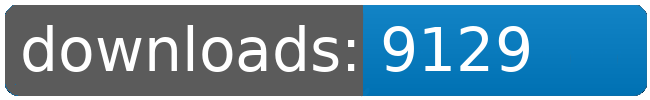
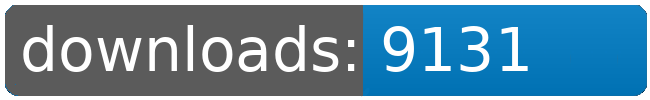
dl log written

Changed region(s): [[0.7077, 0.24, 0.8308, 0.72]]

diff --git a/README.md b/README.md
@@ -4,146 +4,146 @@
 <table>
 	<tr>
 		<td></td>
-		<td>2026-11-19</td>
 		<td>2026-11-20</td>
 		<td>2026-11-21</td>
 		<td>2026-11-22</td>
 		<td>2026-11-23</td>
 		<td>2026-11-24</td>
 		<td>2026-11-25</td>
+		<td>2026-11-26</td>
 		<td>today +</td>
 	</tr>
 	<tr>
 		<td>Bunsen.Burner</td>
-		<td>9164</td>
 		<td>9176</td>
 		<td>9180</td>
 		<td>9203</td>
 		<td>9213</td>
 		<td>9215</td>
 		<td>9220</td>
-		<td>+ 5</td>
+		<td>9220</td>
+		<td></td>
 	</tr>
 	<tr>
 		<td>Factory.Outlets</td>
-		<td>8281</td>
 		<td>8290</td>
 		<td>8295</td>
 		<td>8304</td>
 		<td>8310</td>
 		<td>8313</td>
 		<td>8317</td>
-		<td>+ 4</td>
+		<td>8317</td>
+		<td></td>
 	</tr>
 	<tr>
 		<td>Fundamental.Outfit.Expansion</td>
-		<td>9759</td>
 		<td>9772</td>
 		<td>9778</td>
 		<td>9794</td>
 		<td>9805</td>
 		<td>9808</td>
 		<td>9815</td>
-		<td>+ 7</td>
+		<td>9815</td>
+		<td></td>
 	</tr>
 	<tr>
 		<td>Fundamental.Outfit.Expansion.Alien</td>
-		<td>77</td>
 		<td>86</td>
 		<td>87</td>
 		<td>95</td>
 		<td>102</td>
 		<td>106</td>
 		<td>115</td>
-		<td>+ 9</td>
+		<td>115</td>
+		<td></td>
 	</tr>
 	<tr>
 		<td>Jaws</td>
-		<td>8015</td>
 		<td>8024</td>
 		<td>8028</td>
 		<td>8036</td>
 		<td>8040</td>
 		<td>8042</td>
 		<td>8046</td>
-		<td>+ 4</td>
+		<td>8046</td>
+		<td></td>
 	</tr>
 	<tr>
 		<td>Korunak.Defense.Drones</td>
-		<td>8287</td>
 		<td>8300</td>
 		<td>8305</td>
 		<td>8325</td>
 		<td>8337</td>
 		<td>8340</td>
 		<td>8344</td>
-		<td>+ 4</td>
+		<td>8344</td>
+		<td></td>
 	</tr>
 	<tr>
 		<td>Laser.Sight</td>
-		<td>32</td>
 		<td>35</td>
 		<td>35</td>
 		<td>39</td>
 		<td>40</td>
 		<td>40</td>
 		<td>41</td>
-		<td>+ 1</td>
+		<td>41</td>
+		<td></td>
 	</tr>
 	<tr>
 		<td>Louise.Conglomerate.Shipyards</td>
-		<td>9059</td>
 		<td>9074</td>
 		<td>9084</td>
 		<td>9107</td>
 		<td>9120</td>
 		<td>9123</td>
 		<td>9129</td>
-		<td>+ 6</td>
+		<td>9131</td>
+		<td>+ 2</td>
 	</tr>
 	<tr>
 		<td>Sheragi.Rebirth.Redux</td>
-		<td>120</td>
 		<td>124</td>
 		<td>124</td>
 		<td>128</td>
 		<td>130</td>
 		<td>130</td>
 		<td>131</td>
-		<td>+ 1</td>
+		<td>131</td>
+		<td></td>
 	</tr>
 	<tr>
 		<td>Solar.Sails</td>
-		<td>8179</td>
 		<td>8189</td>
 		<td>8193</td>
 		<td>8204</td>
 		<td>8212</td>
 		<td>8214</td>
 		<td>8219</td>
-		<td>+ 5</td>
+		<td>8220</td>
+		<td>+ 1</td>
 	</tr>
 	<tr>
 		<td>Zone.of.Control</td>
-		<td>7970</td>
 		<td>7979</td>
 		<td>7983</td>
 		<td>7991</td>
 		<td>7997</td>
 		<td>8000</td>
 		<td>8004</td>
-		<td>+ 4</td>
+		<td>8004</td>
+		<td></td>
 	</tr>
 	<tr>
 		<td>zzzZapping.Tweaks</td>
-		<td>43</td>
 		<td>46</td>
 		<td>46</td>
 		<td>51</td>
 		<td>53</td>
 		<td>53</td>
 		<td>54</td>
-		<td>+ 1</td>
+		<td>54</td>
+		<td></td>
 	</tr>
 	<tr>
 		<td></td>
@@ -153,8 +153,8 @@
 		<td></td>
 		<td></td>
 		<td></td>
-		<td>69435</td>
-		<td>51</td>
+		<td>69438</td>
+		<td>3</td>
 	</tr>
 </table>
 </sub></sup>
@@ -162,146 +162,146 @@
 <table>
 	<tr>
 		<td></td>
-		<td>2026-11-19</td>
 		<td>2026-11-20</td>
 		<td>2026-11-21</td>
 		<td>2026-11-22</td>
 		<td>2026-11-23</td>
 		<td>2026-11-24</td>
 		<td>2026-11-25</td>
+		<td>2026-11-26</td>
 		<td>today +</td>
 	</tr>
 	<tr>
 		<td>Fundamental.Outfit.Expansion</td>
-		<td>9759</td>
 		<td>9772</td>
 		<td>9778</td>
 		<td>9794</td>
 		<td>9805</td>
 		<td>9808</td>
 		<td>9815</td>
-		<td>+ 7</td>
+		<td>9815</td>
+		<td></td>
 	</tr>
 	<tr>
 		<td>Bunsen.Burner</td>
-		<td>9164</td>
 		<td>9176</td>
 		<td>9180</td>
 		<td>9203</td>
 		<td>9213</td>
 		<td>9215</td>
 		<td>9220</td>
-		<td>+ 5</td>
+		<td>9220</td>
+		<td></td>
 	</tr>
 	<tr>
 		<td>Louise.Conglomerate.Shipyards</td>
-		<td>9059</td>
 		<td>9074</td>
 		<td>9084</td>
 		<td>9107</td>
 		<td>9120</td>
 		<td>9123</td>
 		<td>9129</td>
-		<td>+ 6</td>
+		<td>9131</td>
+		<td>+ 2</td>
 	</tr>
 	<tr>
 		<td>Korunak.Defense.Drones</td>
-		<td>8287</td>
 		<td>8300</td>
 		<td>8305</td>
 		<td>8325</td>
 		<td>8337</td>
 		<td>8340</td>
 		<td>8344</td>
-		<td>+ 4</td>
+		<td>8344</td>
+		<td></td>
 	</tr>
 	<tr>
 		<td>Factory.Outlets</td>
-		<td>8281</td>
 		<td>8290</td>
 		<td>8295</td>
 		<td>8304</td>
 		<td>8310</td>
 		<td>8313</td>
 		<td>8317</td>
-		<td>+ 4</td>
+		<td>8317</td>
+		<td></td>
 	</tr>
 	<tr>
 		<td>Solar.Sails</td>
-		<td>8179</td>
 		<td>8189</td>
 		<td>8193</td>
 		<td>8204</td>
 		<td>8212</td>
 		<td>8214</td>
 		<td>8219</td>
-		<td>+ 5</td>
+		<td>8220</td>
+		<td>+ 1</td>
 	</tr>
 	<tr>
 		<td>Jaws</td>
-		<td>8015</td>
 		<td>8024</td>
 		<td>8028</td>
 		<td>8036</td>
 		<td>8040</td>
 		<td>8042</td>
 		<td>8046</td>
-		<td>+ 4</td>
+		<td>8046</td>
+		<td></td>
 	</tr>
 	<tr>
 		<td>Zone.of.Control</td>
-		<td>7970</td>
 		<td>7979</td>
 		<td>7983</td>
 		<td>7991</td>
 		<td>7997</td>
 		<td>8000</td>
 		<td>8004</td>
-		<td>+ 4</td>
+		<td>8004</td>
+		<td></td>
 	</tr>
 	<tr>
 		<td>Sheragi.Rebirth.Redux</td>
-		<td>120</td>
 		<td>124</td>
 		<td>124</td>
 		<td>128</td>
 		<td>130</td>
 		<td>130</td>
 		<td>131</td>
-		<td>+ 1</td>
+		<td>131</td>
+		<td></td>
 	</tr>
 	<tr>
 		<td>Fundamental.Outfit.Expansion.Alien</td>
-		<td>77</td>
 		<td>86</td>
 		<td>87</td>
 		<td>95</td>
 		<td>102</td>
 		<td>106</td>
 		<td>115</td>
-		<td>+ 9</td>
+		<td>115</td>
+		<td></td>
 	</tr>
 	<tr>
 		<td>zzzZapping.Tweaks</td>
-		<td>43</td>
 		<td>46</td>
 		<td>46</td>
 		<td>51</td>
 		<td>53</td>
 		<td>53</td>
 		<td>54</td>
-		<td>+ 1</td>
+		<td>54</td>
+		<td></td>
 	</tr>
 	<tr>
 		<td>Laser.Sight</td>
-		<td>32</td>
 		<td>35</td>
 		<td>35</td>
 		<td>39</td>
 		<td>40</td>
 		<td>40</td>
 		<td>41</td>
-		<td>+ 1</td>
+		<td>41</td>
+		<td></td>
 	</tr>
 	<tr>
 		<td></td>
@@ -311,8 +311,8 @@
 		<td></td>
 		<td></td>
 		<td></td>
-		<td>69435</td>
-		<td>51</td>
+		<td>69438</td>
+		<td>3</td>
 	</tr>
 </table>
 </sub></sup>
@@ -379,9 +379,9 @@
 		<td></td>
 	</tr>
 	<tr>
-		<td>408</td>
-		<td>20.85</td>
-		<td>6.18</td>
+		<td>409</td>
+		<td>20.79</td>
+		<td>6.17</td>
 		<td></td>
 		<td></td>
 	</tr>
